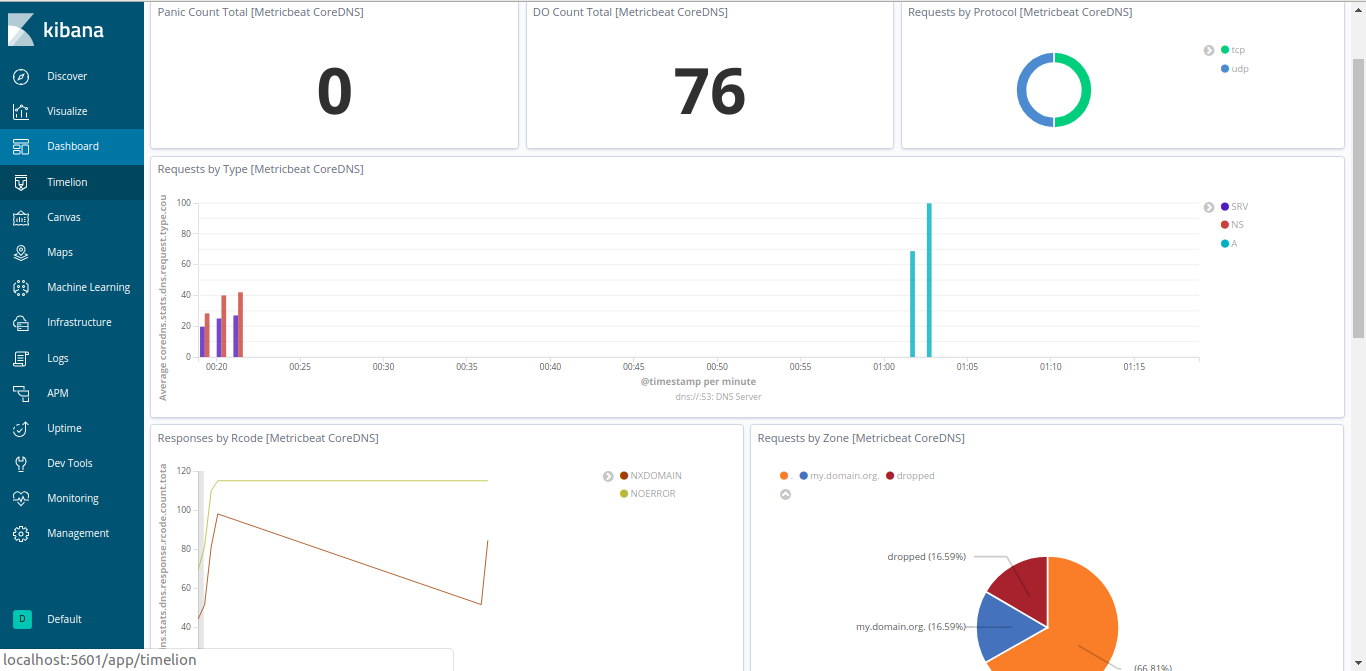
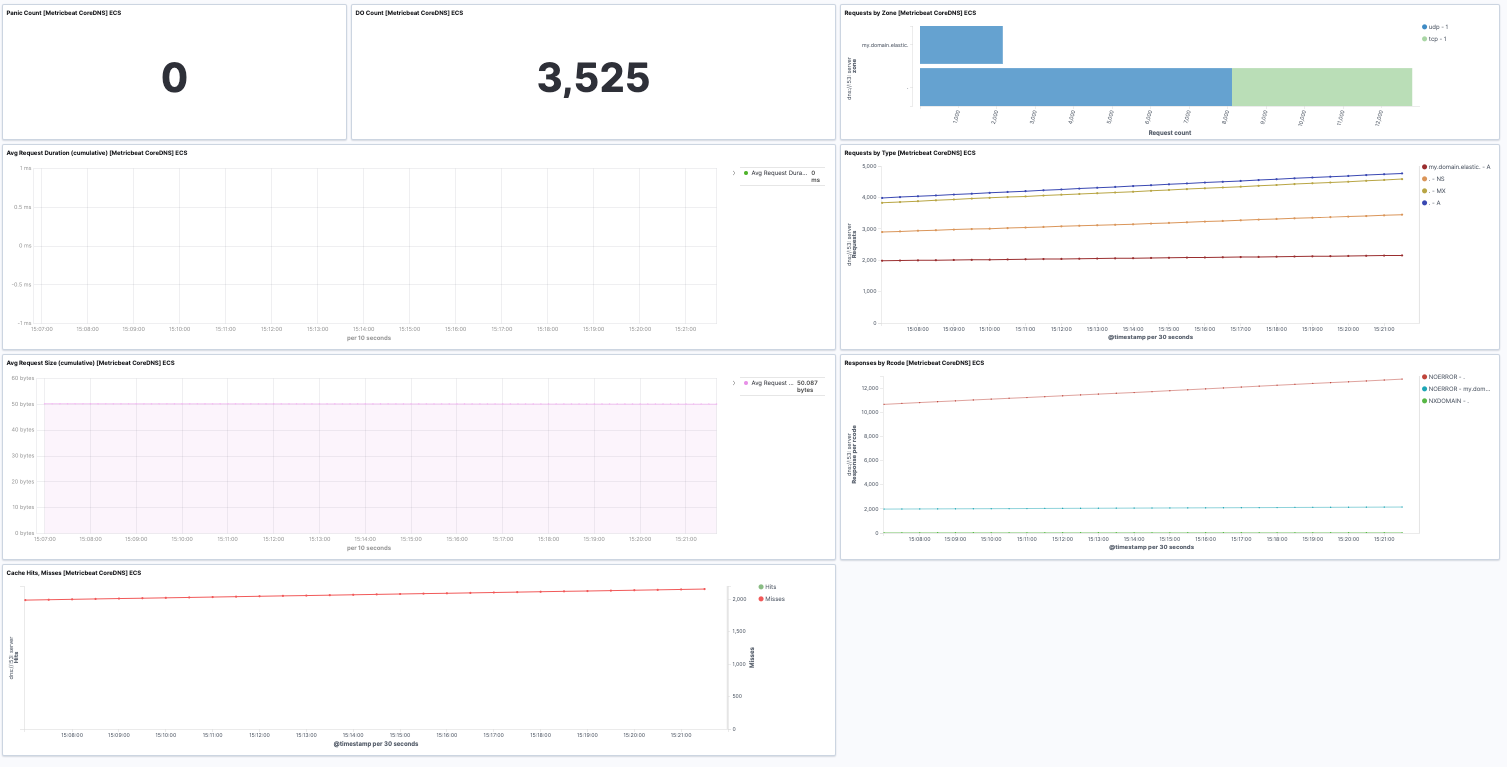
Release CoreDNS metricbeat module as GA (#14308)

diff --git a/x-pack/metricbeat/module/coredns/fields.go b/x-pack/metricbeat/module/coredns/fields.go
@@ -19,5 +19,5 @@ func init() {
 // AssetCoredns returns asset data.
 // This is the base64 encoded gzipped contents of module/coredns.
 func AssetCoredns() string {
[2 lines of base64/hex data omitted]
 }